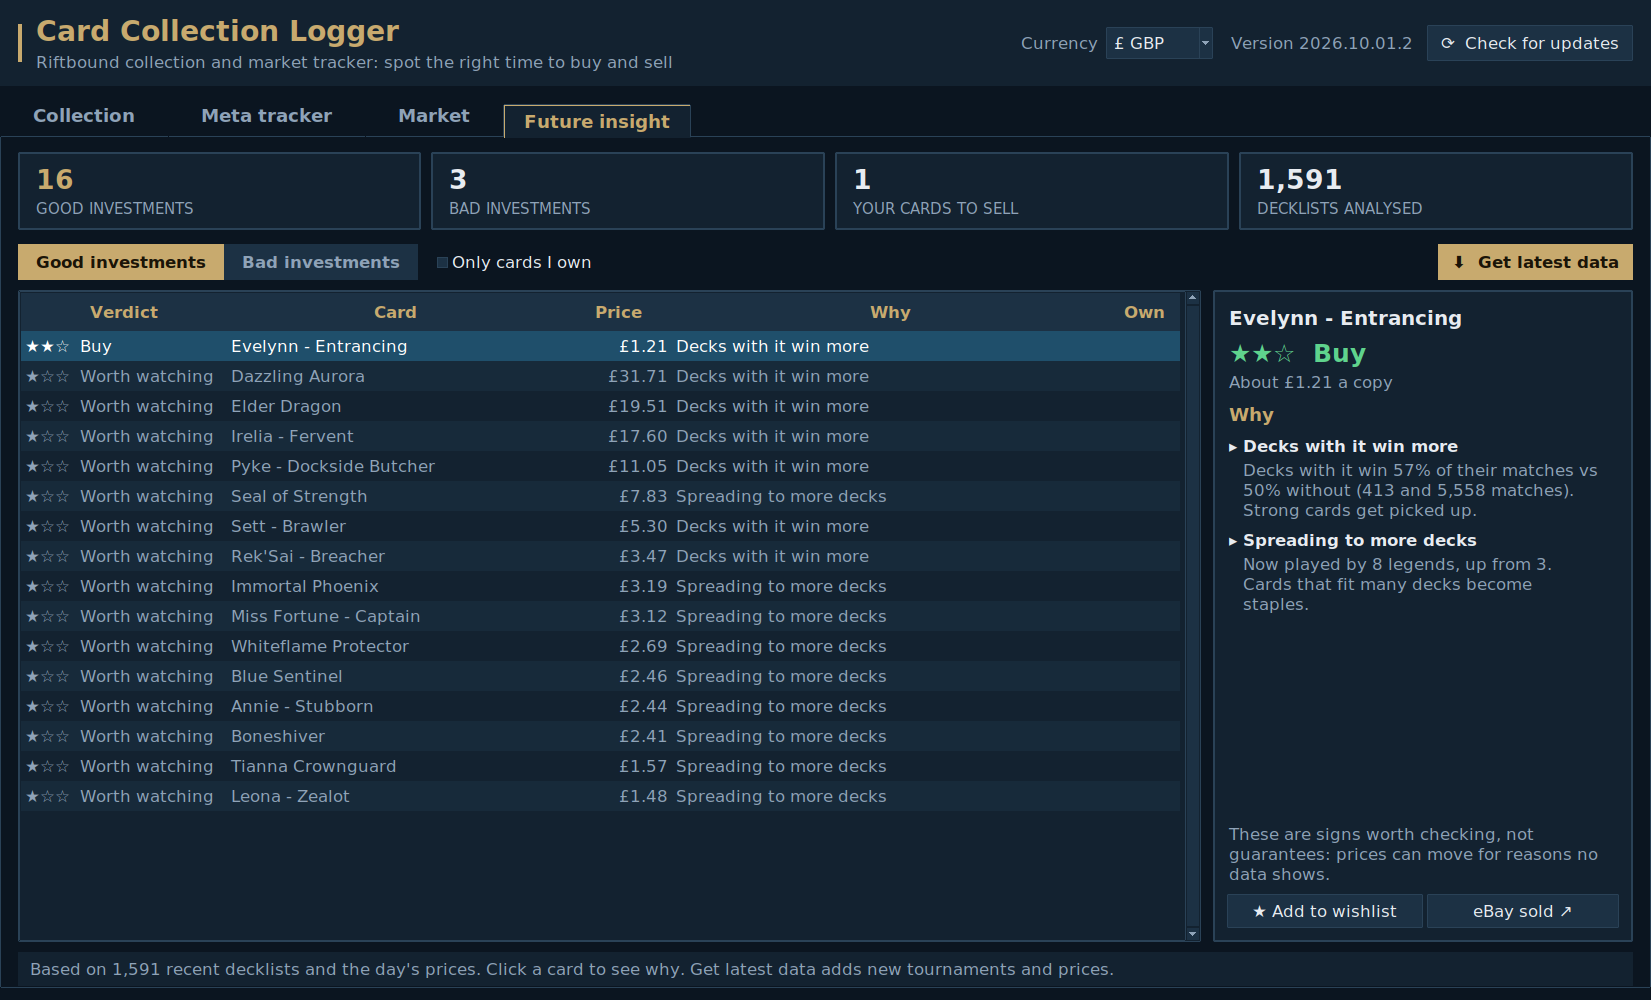
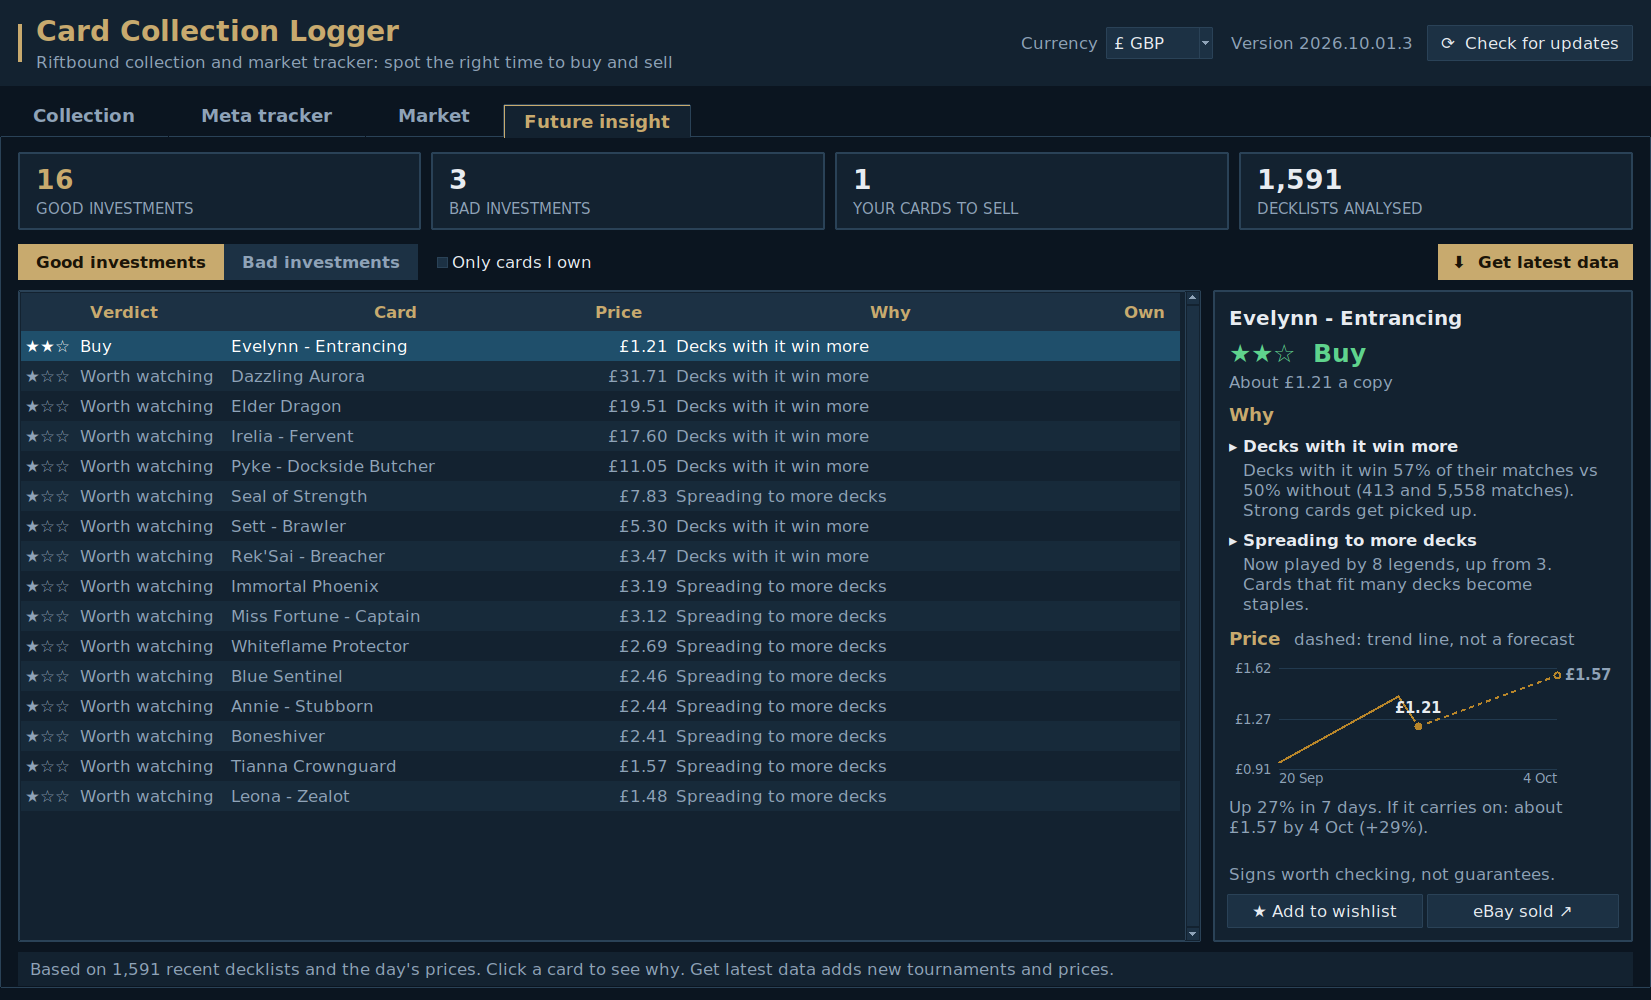
Add a price chart with a trend line to Future insight
Selecting a card now shows a small chart of its price under the reasons:
the cheapest regular printing's history, starting with a week from
riftbound.gg's 7-day change, plus a dashed straight-line continuation of
the recent trend (no further ahead than the history, capped at +/-50%),
with a one-line summary. On short screens the reasons and chart scroll.
Version 2026.10.01.4.

Claude-Session: https://claude.ai/code/session_016z55PFesJRtVhNiZxbcSqD

Changed region(s): [[0.7414, 0.713, 0.9576, 0.899], [0.7414, 0.62, 0.9885, 0.682], [0.834, 0.682, 0.8649, 0.713]]

diff --git a/card_logger/insight_gui.py b/card_logger/insight_gui.py
@@ -2,13 +2,16 @@
 
 import tkinter as tk
 import webbrowser
+from datetime import date
 from tkinter import messagebox, ttk
 
 from . import catalog, currency, insight, market, theme
+from .charts import LineChart
 from .db import Card, CardDatabase, name_key
 from .meta import MetaTracker
 
 GOOD, BAD = insight.GOOD, insight.BAD
+PRICE_COLOR = "#b8862a"  # same as the price charts in the Market tab
 
 COLUMNS = [
     ("rating", "Verdict", 150, "w"),
@@ -93,8 +96,6 @@ class InsightTab(ttk.Frame):
                                        font=theme.font(15, "bold"))
         self.verdict_label.pack(anchor="w", pady=(4, 0))
         ttk.Label(panel, textvariable=self.d_price, style="CardMuted.TLabel").pack(anchor="w", pady=(0, 8))
-        self.reasons_frame = ttk.Frame(panel, style="Header.TFrame")
-        self.reasons_frame.pack(fill="both", expand=True, anchor="n")
         buttons = ttk.Frame(panel, style="Header.TFrame")
         buttons.pack(side="bottom", fill="x", pady=(8, 0))
         buttons.columnconfigure((0, 1), weight=1, uniform="b")
@@ -103,9 +104,25 @@ class InsightTab(ttk.Frame):
         self.wish_button.grid(row=0, column=0, sticky="ew")
         self.ebay_button = ttk.Button(buttons, text="eBay sold ↗", style="Small.TButton", command=self.open_ebay)
         self.ebay_button.grid(row=0, column=1, sticky="ew", padx=(4, 0))
-        ttk.Label(panel, style="CardMuted.TLabel", wraplength=theme.px(306), justify="left", text=(
-            "These are signs worth checking, not guarantees: prices can move for reasons no data shows."
-        )).pack(side="bottom", anchor="w", pady=(8, 0))
+        ttk.Label(panel, style="CardMuted.TLabel", wraplength=theme.px(306), justify="left",
+                  text="Signs worth checking, not guarantees.").pack(side="bottom", anchor="w", pady=(6, 0))
+
+        # The reasons and the price chart scroll if a small screen can't fit them.
+        self.scroll = theme.ScrollFrame(panel)
+        self.scroll.pack(fill="both", expand=True)
+        self.reasons_frame = ttk.Frame(self.scroll.inner, style="Header.TFrame")
+        self.reasons_frame.pack(fill="x", anchor="n")
+        chart_box = ttk.Frame(self.scroll.inner, style="Header.TFrame")
+        chart_box.pack(fill="x", pady=(10, 0))
+        heading = ttk.Frame(chart_box, style="Header.TFrame")
+        heading.pack(anchor="w")
+        ttk.Label(heading, text="Price", style="CardSection.TLabel").pack(side="left")
+        ttk.Label(heading, text="  dashed: trend line, not a forecast", style="CardMuted.TLabel").pack(side="left")
+        self.chart = LineChart(chart_box, PRICE_COLOR, fmt=currency.fmt, height=theme.px(110))
+        self.chart.pack(fill="x", pady=(4, 0))
+        self.d_trend = tk.StringVar()
+        ttk.Label(chart_box, textvariable=self.d_trend, style="CardMuted.TLabel", wraplength=theme.px(288),
+                  justify="left").pack(anchor="w", pady=(2, 0))
 
     # --- display -------------------------------------------------------------
 
@@ -139,6 +156,7 @@ class InsightTab(ttk.Frame):
     def show_details(self) -> None:
         for child in self.reasons_frame.winfo_children():
             child.destroy()
+        self.scroll.to_top()
         sel = self.tree.selection()
         if not sel:
             good = self.kind_var.get() == GOOD
@@ -152,6 +170,8 @@ class InsightTab(ttk.Frame):
                 + " Check again after the next tournaments.")).pack(anchor="w")
             self.wish_button.state(["disabled"])
             self.ebay_button.state(["disabled"])
+            self.chart.set_data([])
+            self.d_trend.set("")
             return
         p = self.shown[int(sel[0])]
         self.d_name.set(p.name)
@@ -168,6 +188,25 @@ class InsightTab(ttk.Frame):
                       justify="left").pack(anchor="w", padx=(14, 0))
         self.wish_button.state(["!disabled"] if p.kind == GOOD else ["disabled"])
         self.ebay_button.state(["!disabled"])
+        self._show_price(p)
+
+    def _show_price(self, p: insight.Pick) -> None:
+        trend = insight.price_trend(self.db, p.name)
+        self.chart.set_data(trend.points, "No price history yet. It builds up as prices update each day.",
+                            projection=trend.projection)
+        parts = []
+        if trend.change is not None and trend.days:
+            parts.append("No change" if abs(trend.change) < 0.005 else
+                         f"{'Up' if trend.change > 0 else 'Down'} {abs(trend.change):.0%}"
+                         + f" in {trend.days} day{'s' if trend.days != 1 else ''}.")
+        if trend.projection:
+            (_, now), (end, ahead) = trend.projection[0], trend.projection[-1]
+            change = (ahead - now) / now if now else 0
+            parts.append(f"If it carries on: about {currency.fmt(ahead)} by {date.fromisoformat(end).day} "
+                         f"{date.fromisoformat(end):%b} ({change:+.0%}).")
+        elif trend.points:
+            parts.append("Not enough price history for a trend line yet.")
+        self.d_trend.set(" ".join(parts))
 
     # --- actions -------------------------------------------------------------
 

diff --git a/card_logger/charts.py b/card_logger/charts.py
@@ -14,6 +14,7 @@ class LineChart(tk.Canvas):
 
     One series per chart: the title above it says what's plotted, so there's
     no legend. The last point is labelled; hover shows any point's value.
+    An optional projection continues the line, dashed, from its last point.
     """
 
     PAD_LEFT, PAD_RIGHT, PAD_TOP, PAD_BOTTOM = 52, 56, 12, 24
@@ -22,14 +23,16 @@ class LineChart(tk.Canvas):
         super().__init__(parent, height=height, background=theme.SURFACE, highlightthickness=0, **kw)
         self.color, self.fmt, self.zero_based = color, fmt, zero_based
         self.points: list[tuple[str, float | None]] = []
+        self.projection: list[tuple[str, float]] = []
         self.empty_text = ""
         self._xy: list[tuple[float, float, str, float]] = []
         self.bind("<Configure>", lambda _: self.draw())
         self.bind("<Motion>", self._hover)
         self.bind("<Leave>", lambda _: self.delete("hover"))
 
-    def set_data(self, points: list[tuple[str, float | None]], empty_text: str = "") -> None:
-        self.points, self.empty_text = points, empty_text
+    def set_data(self, points: list[tuple[str, float | None]], empty_text: str = "",
+                 projection: list[tuple[str, float]] | None = None) -> None:
+        self.points, self.empty_text, self.projection = points, empty_text, projection or []
         self.draw()
 
     def draw(self) -> None:
@@ -44,6 +47,7 @@ class LineChart(tk.Canvas):
                              width=w - 30, justify="center")
             return
 
+        values += [v for _, v in self.projection]
         lo, hi = (0.0 if self.zero_based else min(values)), max(values)
         if hi - lo < 1e-9:
             lo, hi = lo - (abs(lo) * 0.1 or 1), hi + (abs(hi) * 0.1 or 1)
@@ -56,11 +60,12 @@ class LineChart(tk.Canvas):
         axis_font = tkfont.Font(font=theme.font(8))
         end_font = tkfont.Font(font=theme.font(9, "bold"))
         widest_axis = max(axis_font.measure(self.fmt(lo + (hi - lo) * f)) for f in (0, 0.5, 1))
-        last_value = next(v for _, v in reversed(self.points) if v is not None)
+        last_value = (self.projection or [(None, None)])[-1][1] or next(
+            v for _, v in reversed(self.points) if v is not None)
         left = max(self.PAD_LEFT, widest_axis + 14)
         right = w - max(self.PAD_RIGHT, end_font.measure(self.fmt(last_value)) + 16)
         top, bottom = self.PAD_TOP, h - self.PAD_BOTTOM
-        days = [date.fromisoformat(d).toordinal() for d, _ in self.points]
+        days = [date.fromisoformat(d).toordinal() for d, _ in self.points + self.projection]
         d0, d1 = min(days), max(days)
         span = max(d1 - d0, 1)
 
@@ -78,8 +83,8 @@ class LineChart(tk.Canvas):
             self.create_text(left - 8, y, text=self.fmt(v), anchor="e", fill=theme.MUTED, font=theme.font(8))
         self.create_text(left, h - 6, text=_short(self.points[0][0]), anchor="sw", fill=theme.MUTED,
                          font=theme.font(8))
-        self.create_text(right, h - 6, text=_short(self.points[-1][0]), anchor="se", fill=theme.MUTED,
-                         font=theme.font(8))
+        self.create_text(right, h - 6, text=_short((self.points + self.projection)[-1][0]), anchor="se",
+                         fill=theme.MUTED, font=theme.font(8))
 
         # 2px line, broken where there's no value.
         segment: list[float] = []
@@ -99,6 +104,18 @@ class LineChart(tk.Canvas):
 
         # End marker with a surface ring, labelled in text ink.
         x, y, _, v = self._xy[-1]
+        if self.projection:
+            # Dashed continuation to the projected value, labelled at its end.
+            n = len(self.points)
+            coords = [c for i in range(len(self.projection)) for c in (x_of(n + i), y_of(self.projection[i][1]))]
+            self.create_line(x, y, *coords[2:], fill=self.color, width=2, dash=(5, 4))
+            px, py = coords[-2], coords[-1]
+            self.create_oval(px - 3, py - 3, px + 3, py + 3, outline=self.color, width=2, fill=theme.SURFACE)
+            self.create_text(px + 8, py, text=self.fmt(self.projection[-1][1]), anchor="w", fill=theme.MUTED,
+                             font=theme.font(9, "bold"))
+            self._dot(x, y, self.color)
+            self.create_text(x, y - 9, text=self.fmt(v), anchor="s", fill=theme.TEXT, font=theme.font(9, "bold"))
+            return
         self._dot(x, y, self.color)
         self.create_text(x + 8, y, text=self.fmt(v), anchor="w", fill=theme.TEXT, font=theme.font(9, "bold"))
 

diff --git a/card_logger/insight.py b/card_logger/insight.py
@@ -475,3 +475,73 @@ def _trim(picks: list[Pick]) -> list[Pick]:
                 continue
         kept.append(p)
     return kept
+
+
+# --- price chart for a pick ---------------------------------------------------------
+
+PROJECT_DAYS = 14   # how far ahead the trend line goes
+TREND_DAYS = 30     # recent prices the trend is fitted to
+MAX_PROJECTED = 0.5  # a straight line can't promise more than ±50%
+
+
+@dataclass
+class PriceTrend:
+    points: list[tuple[str, float]]               # (day, US dollars), oldest first
+    projection: list[tuple[str, float]] | None    # from the last point to PROJECT_DAYS ahead
+    change: float | None = None                   # over the shown history, as a fraction
+    days: int = 0
+
+
+def price_trend(db: CardDatabase, name: str) -> PriceTrend:
+    """Price history of a card's cheapest regular printing, and where it heads
+    if its recent trend carries on (a straight line, not a forecast)."""
+    from . import catalog
+
+    key = name_key(name)
+    printings = [c for c in catalog.load(db) if name_key(c.base_name) == key and c.main_price]
+    regular = [c for c in printings if c.version == "Standard"] or printings
+    points: list[tuple[str, float]] = []
+    if regular:
+        card = min(regular, key=lambda c: c.main_price)
+        points = catalog.history(db, card)
+        # riftbound.gg gives each price's change over 1 and 7 days, so the chart
+        # shows a week's movement even before the app has a week of history.
+        latest = db.get_setting("catalog_updated") or date.today().isoformat()
+        today = date.fromisoformat(latest)
+        known = {d for d, _ in points}
+        for back, delta in ((7, card.change_7d), (1, card.change_1d)):
+            day = (today - timedelta(days=back)).isoformat()
+            if delta and day not in known and (not points or day < points[0][0] or len(points) < 3):
+                points.append((day, max(0.01, card.main_price - delta)))
+        if latest not in known:
+            points.append((latest, card.main_price))
+        points.sort()
+    general = db.price_history(name=name)
+    if len(general) > len(points):
+        points = general
+    if len(points) < 2:
+        return PriceTrend(points, None)
+    first, last = date.fromisoformat(points[0][0]), date.fromisoformat(points[-1][0])
+    change = (points[-1][1] - points[0][1]) / points[0][1] if points[0][1] else None
+    return PriceTrend(points, _projection(points), change, (last - first).days)
+
+
+def _projection(points: list[tuple[str, float]]) -> list[tuple[str, float]] | None:
+    last_day = date.fromisoformat(points[-1][0])
+    recent = [(date.fromisoformat(d), v) for d, v in points
+              if (last_day - date.fromisoformat(d)).days <= TREND_DAYS]
+    if len(recent) < 3 or (last_day - recent[0][0]).days < 6:
+        return None  # too little history to draw a trend
+    xs = [(d - last_day).days for d, _ in recent]
+    ys = [v for _, v in recent]
+    mx, my = sum(xs) / len(xs), sum(ys) / len(ys)
+    var = sum((x - mx) ** 2 for x in xs)
+    if not var:
+        return None
+    slope = sum((x - mx) * (y - my) for x, y in zip(xs, ys)) / var
+    # Never look further ahead than the history behind the line.
+    days_ahead = min(PROJECT_DAYS, (last_day - recent[0][0]).days)
+    now = points[-1][1]
+    ahead = now + slope * days_ahead
+    ahead = max(now * (1 - MAX_PROJECTED), min(now * (1 + MAX_PROJECTED), ahead), 0.01)
+    return [(points[-1][0], now), ((last_day + timedelta(days=days_ahead)).isoformat(), ahead)]

diff --git a/tests/test_insight.py b/tests/test_insight.py
@@ -188,6 +188,40 @@ class InvestmentsTest(unittest.TestCase):
         self.assertEqual(insight.investments(db, meta, {"cheapfading": 0.20}, today=ANCHOR).bad, [])
 
 
+class PriceTrendTest(unittest.TestCase):
+    def setUp(self):
+        from card_logger import catalog
+        self.catalog = catalog
+        self.db = CardDatabase(":memory:")
+        raw = [{"id": "OGN-001", "name": "Rising Card", "price": "3.00", "delta7dPrice": "1.00", "deltaPrice": "0.10"},
+               {"id": "OGN-001a", "name": "Rising Card", "price": "9.00"},
+               {"id": "OGN-002", "name": "Old Card", "price": "5.00"}]
+        catalog.save(self.db, catalog.parse(raw), day="2026-09-27")
+
+    def test_week_from_riftbound_changes(self):
+        t = insight.price_trend(self.db, "Rising Card")  # the regular printing, not the $9 alt art
+        self.assertEqual(t.points, [("2026-09-20", 2.0), ("2026-09-26", 2.9), ("2026-09-27", 3.0)])
+        self.assertAlmostEqual(t.change, 0.5)
+        self.assertEqual(t.days, 7)
+        (start, now), (end, ahead) = t.projection
+        self.assertEqual((start, now, end), ("2026-09-27", 3.0, "2026-10-04"))  # no further ahead than the history
+        self.assertGreater(ahead, 3.0)
+        self.assertLessEqual(ahead, 4.5)  # capped at +50%
+
+    def test_no_trend_without_history(self):
+        t = insight.price_trend(self.db, "Old Card")
+        self.assertEqual(t.points, [("2026-09-27", 5.0)])
+        self.assertIsNone(t.projection)
+        self.assertEqual(insight.price_trend(self.db, "Unknown").points, [])
+
+    def test_projection_follows_the_line(self):
+        points = [(f"2026-09-{d:02d}", 10.0 - (d - 1) * 0.1) for d in range(1, 29)]  # -0.10 a day
+        (_, now), (end, ahead) = insight._projection(points)
+        self.assertEqual(end, "2026-10-12")
+        self.assertAlmostEqual(ahead, now - 1.4, places=6)
+        self.assertIsNone(insight._projection(points[:2]))
+
+
 class HelpersTest(unittest.TestCase):
     def test_slope(self):
         self.assertAlmostEqual(insight.slope_per_week([(0, 0.1), (1, 0.2), (2, 0.3)]), 10)

diff --git a/card_logger/theme.py b/card_logger/theme.py
@@ -297,3 +297,36 @@ class StatTile(ttk.Frame):
         self.value = tk.StringVar(value="—")
         ttk.Label(self, textvariable=self.value, style="TileGold.TLabel" if gold else "TileValue.TLabel").pack(anchor="w")
         ttk.Label(self, text=caption.upper(), style="TileCaption.TLabel").pack(anchor="w")
+
+
+class ScrollFrame(ttk.Frame):
+    """A frame whose contents scroll vertically when they don't fit. Put
+    widgets in `.inner`; the scroll bar only shows when it's needed, and the
+    mouse wheel scrolls it while the pointer is over it."""
+
+    def __init__(self, parent, style: str = "Header.TFrame"):
+        super().__init__(parent, style=style)
+        self.canvas = tk.Canvas(self, background=SURFACE, highlightthickness=0, borderwidth=0)
+        self.bar = ttk.Scrollbar(self, orient="vertical", command=self.canvas.yview)
+        self.inner = ttk.Frame(self.canvas, style=style)
+        window = self.canvas.create_window(0, 0, window=self.inner, anchor="nw")
+        self.canvas.configure(yscrollcommand=self._scrolled)
+        self.inner.bind("<Configure>", lambda _: self.canvas.configure(scrollregion=self.canvas.bbox("all")))
+        self.canvas.bind("<Configure>", lambda e: self.canvas.itemconfigure(window, width=e.width))
+        self.canvas.pack(side="left", fill="both", expand=True)
+        self.bind("<Enter>", lambda _: self.bind_all("<MouseWheel>", self._wheel))
+        self.bind("<Leave>", lambda _: self.unbind_all("<MouseWheel>"))
+
+    def _scrolled(self, first, last) -> None:
+        self.bar.set(first, last)
+        if float(first) <= 0 and float(last) >= 1:
+            self.bar.pack_forget()
+        elif not self.bar.winfo_ismapped():
+            self.bar.pack(side="right", fill="y", before=self.canvas)
+
+    def _wheel(self, event) -> None:
+        if self.bar.winfo_ismapped():
+            self.canvas.yview_scroll(-1 if event.delta > 0 else 1, "units")
+
+    def to_top(self) -> None:
+        self.canvas.yview_moveto(0)

diff --git a/README.md b/README.md
@@ -411,6 +411,15 @@ The list shows the price and the main reason in a few words. Click a card to
 see every reason explained with its numbers, then add it to your wishlist or
 check eBay's sold listings.
 
+Below the reasons, a small **price chart** shows how its price has moved.
+It uses the card's cheapest regular printing, so the first download already
+shows a week (from riftbound.gg's 7-day change), and the chart grows as
+prices update each day. A **dashed line** continues the recent trend, e.g. "If
+it carries on: about £1.57 by 4 Oct (+29%)". It's a straight line drawn
+through the recent prices, never further ahead than the history behind it and
+capped at ±50%. It shows the direction of travel, not a forecast: news,
+spoilers or bans can change a price overnight.
+
 | Reason | Means |
 | --- | --- |
 | Being played more, price hasn't caught up | Play rate is rising clearly but the price hasn't moved: usually the cheapest time to buy |
